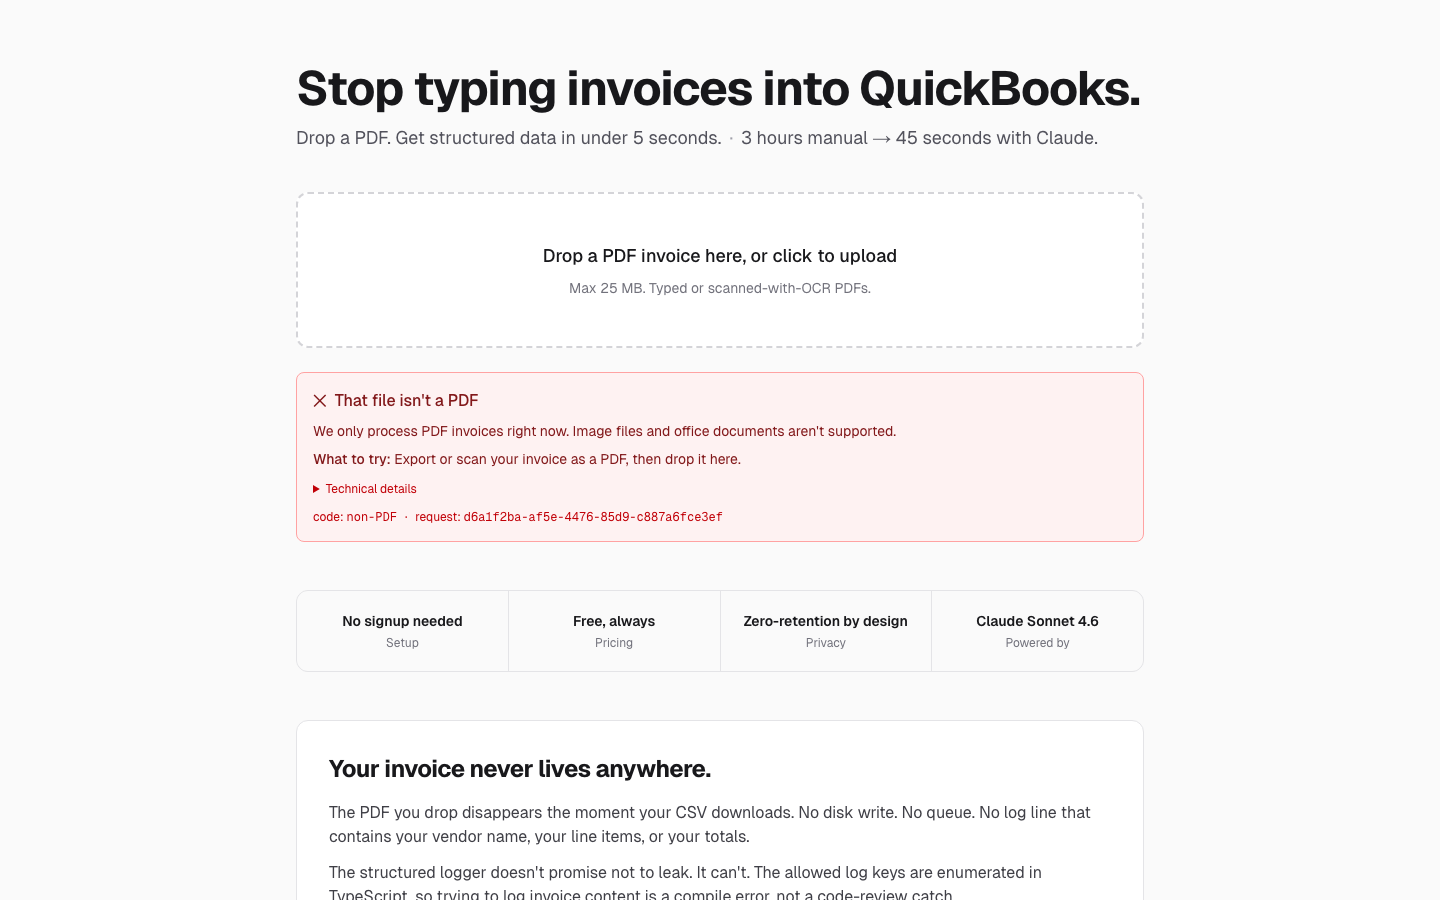
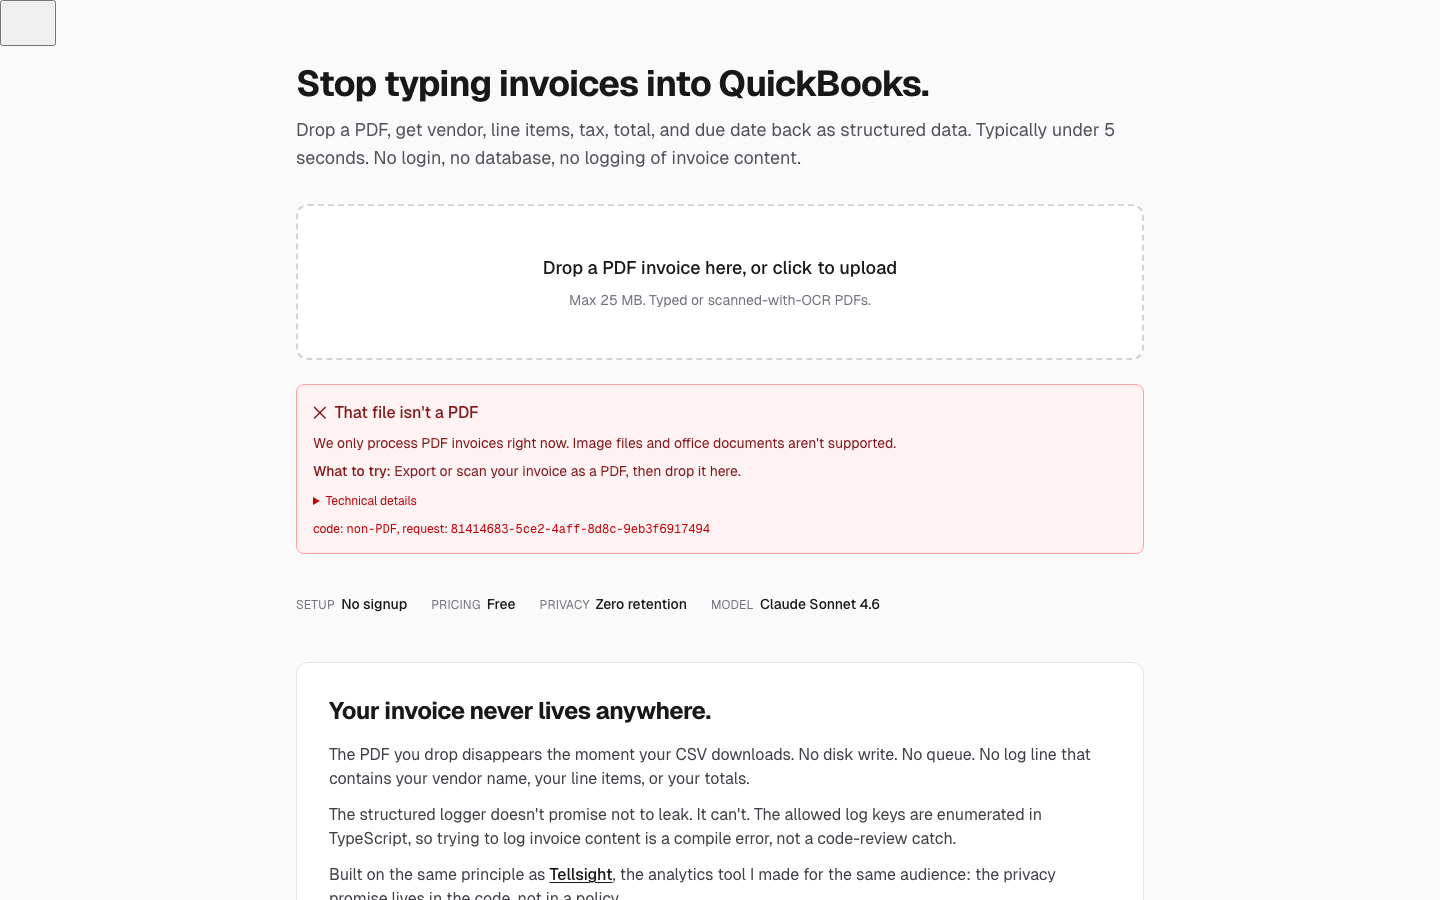
Tighten landing copy and inline the trust strip
The prior hero subhead leaned on a 3-hour-manual to 45-second framing
with a unicode arrow that read more like generated marketing copy than
a tool's product surface. Replace it with a plain description of what
comes back and the privacy posture, drop the headline a tier so the
page reads denser.

The four-tile trust strip was the canonical Vercel-template shape; the
information is real, the form was generic. Inline it as a label/value
strip in the same row instead.

Replace the middot separators in the results meta and error code line
with commas. They were used eight-plus times across the page, which
read ornamental rather than structural.

Recapture landing.png and error-state.png locally to match. The
extract-success.png and csv-export.png screenshots will refresh on
the next production run of scripts/screenshots.mjs since the local
dev server cannot reach the Anthropic API.

diff --git a/src/app/page.tsx b/src/app/page.tsx
@@ -137,19 +137,14 @@ export default function Home() {
       className="min-h-screen bg-zinc-50 text-zinc-900 dark:bg-zinc-950 dark:text-zinc-100"
     >
       <div className="mx-auto max-w-4xl px-6 py-16">
-        <header className="mb-10">
-          <h1 className="text-4xl font-bold tracking-tight sm:text-5xl">
+        <header className="mb-8">
+          <h1 className="text-3xl font-bold tracking-tight sm:text-4xl">
             Stop typing invoices into QuickBooks.
           </h1>
-          <p className="mt-3 text-lg text-zinc-600 dark:text-zinc-400">
-            Drop a PDF. Get structured data in under 5 seconds.
-            <span
-              aria-hidden="true"
-              className="mx-2 text-zinc-400"
-            >
-              ·
-            </span>
-            3 hours manual → 45 seconds with Claude.
+          <p className="mt-3 text-base text-zinc-600 dark:text-zinc-400 sm:text-lg">
+            Drop a PDF, get vendor, line items, tax, total, and due date back as
+            structured data. Typically under 5 seconds. No login, no database,
+            no logging of invoice content.
           </p>
         </header>
 
@@ -289,39 +284,27 @@ function ResultsView({
 
   return (
     <section className="mt-8 space-y-6" aria-label="Extraction results">
-      <div className="flex flex-wrap items-center justify-between gap-2 text-sm text-zinc-500">
+      <div className="flex flex-wrap items-center justify-between gap-x-4 gap-y-1 text-sm text-zinc-500">
         <span>
           <span className="font-medium text-zinc-700 dark:text-zinc-300">
             {filename}
           </span>
-          <span aria-hidden="true" className="mx-2">
-            ·
-          </span>
-          {result.pdf.num_pages} page{result.pdf.num_pages === 1 ? "" : "s"}
-          <span aria-hidden="true" className="mx-2">
-            ·
-          </span>
-          {(result.duration_ms.total / 1000).toFixed(1)}s total
-          <span aria-hidden="true" className="mx-2">
-            ·
-          </span>
+          {", "}
+          {result.pdf.num_pages} page{result.pdf.num_pages === 1 ? "" : "s"},{" "}
+          {(result.duration_ms.total / 1000).toFixed(1)}s,{" "}
           {result.usage.input_tokens + result.usage.output_tokens} tokens
         </span>
         <span>
-          Confidence:{" "}
           <b className="text-green-700 dark:text-green-400">
             {summary.high} high
           </b>
-          <span aria-hidden="true" className="mx-2">
-            ·
-          </span>
+          {", "}
           <b className="text-amber-700 dark:text-amber-400">
-            {summary.medium} medium
+            {summary.medium} med
           </b>
-          <span aria-hidden="true" className="mx-2">
-            ·
-          </span>
+          {", "}
           <b className="text-red-700 dark:text-red-400">{summary.low} low</b>
+          <span className="ml-1">confidence</span>
         </span>
       </div>
 

diff --git a/src/components/trust-strip.tsx b/src/components/trust-strip.tsx
@@ -1,33 +1,30 @@
-interface TrustTile {
+interface TrustFact {
   label: string;
   value: string;
 }
 
-const TILES: readonly TrustTile[] = [
-  { label: "Setup", value: "No signup needed" },
-  { label: "Pricing", value: "Free, always" },
-  { label: "Privacy", value: "Zero-retention by design" },
-  { label: "Powered by", value: "Claude Sonnet 4.6" },
+const FACTS: readonly TrustFact[] = [
+  { label: "Setup", value: "No signup" },
+  { label: "Pricing", value: "Free" },
+  { label: "Privacy", value: "Zero retention" },
+  { label: "Model", value: "Claude Sonnet 4.6" },
 ];
 
 export function TrustStrip() {
   return (
     <section
       aria-label="At a glance"
-      className="mt-12 grid grid-cols-2 gap-px overflow-hidden rounded-xl border border-zinc-200 bg-zinc-200 dark:border-zinc-800 dark:bg-zinc-800 sm:grid-cols-4"
+      className="mt-10 flex flex-wrap gap-x-6 gap-y-2 text-sm text-zinc-600 dark:text-zinc-400"
     >
-      {TILES.map((tile) => (
-        <div
-          key={tile.label}
-          className="bg-zinc-50 px-4 py-5 text-center dark:bg-zinc-950"
-        >
-          <div className="text-sm font-semibold text-zinc-900 dark:text-zinc-100">
-            {tile.value}
-          </div>
-          <div className="mt-1 text-xs text-zinc-500 dark:text-zinc-500">
-            {tile.label}
-          </div>
-        </div>
+      {FACTS.map((fact) => (
+        <span key={fact.label} className="inline-flex items-baseline gap-1.5">
+          <span className="text-xs uppercase tracking-wide text-zinc-500">
+            {fact.label}
+          </span>
+          <span className="font-medium text-zinc-900 dark:text-zinc-100">
+            {fact.value}
+          </span>
+        </span>
       ))}
     </section>
   );

diff --git a/src/components/error-state.tsx b/src/components/error-state.tsx
@@ -90,10 +90,8 @@ export function ErrorState({
         code: <code className="font-mono">{code}</code>
         {correlationId && (
           <>
-            <span className="mx-2" aria-hidden="true">
-              ·
-            </span>
-            request: <code className="font-mono">{correlationId}</code>
+            {", "}request:{" "}
+            <code className="font-mono">{correlationId}</code>
           </>
         )}
       </p>